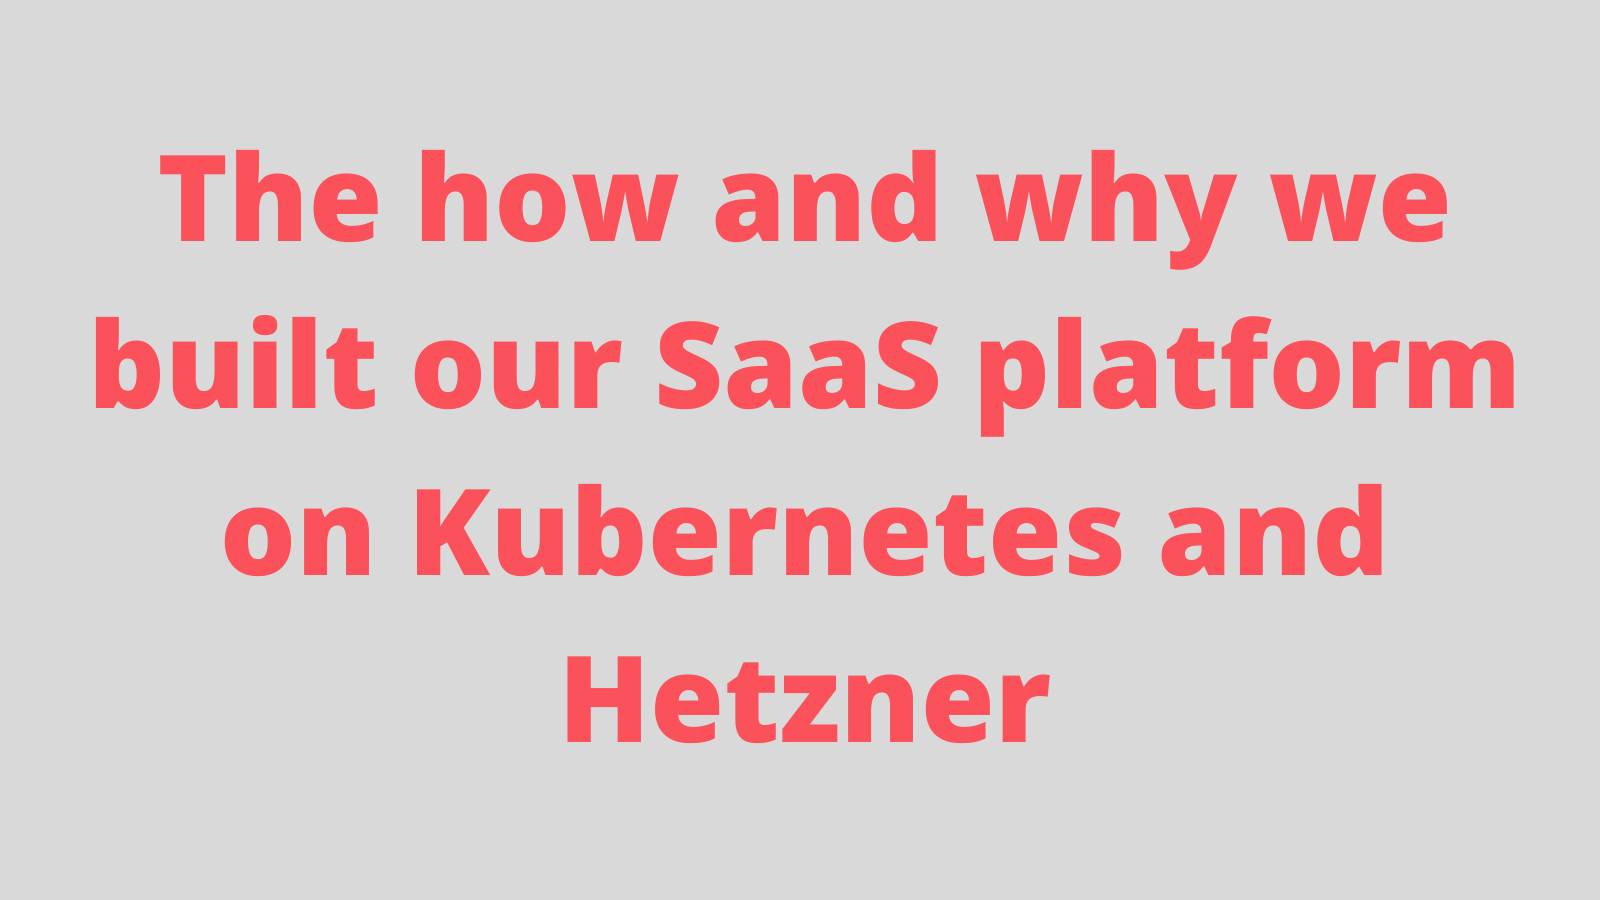
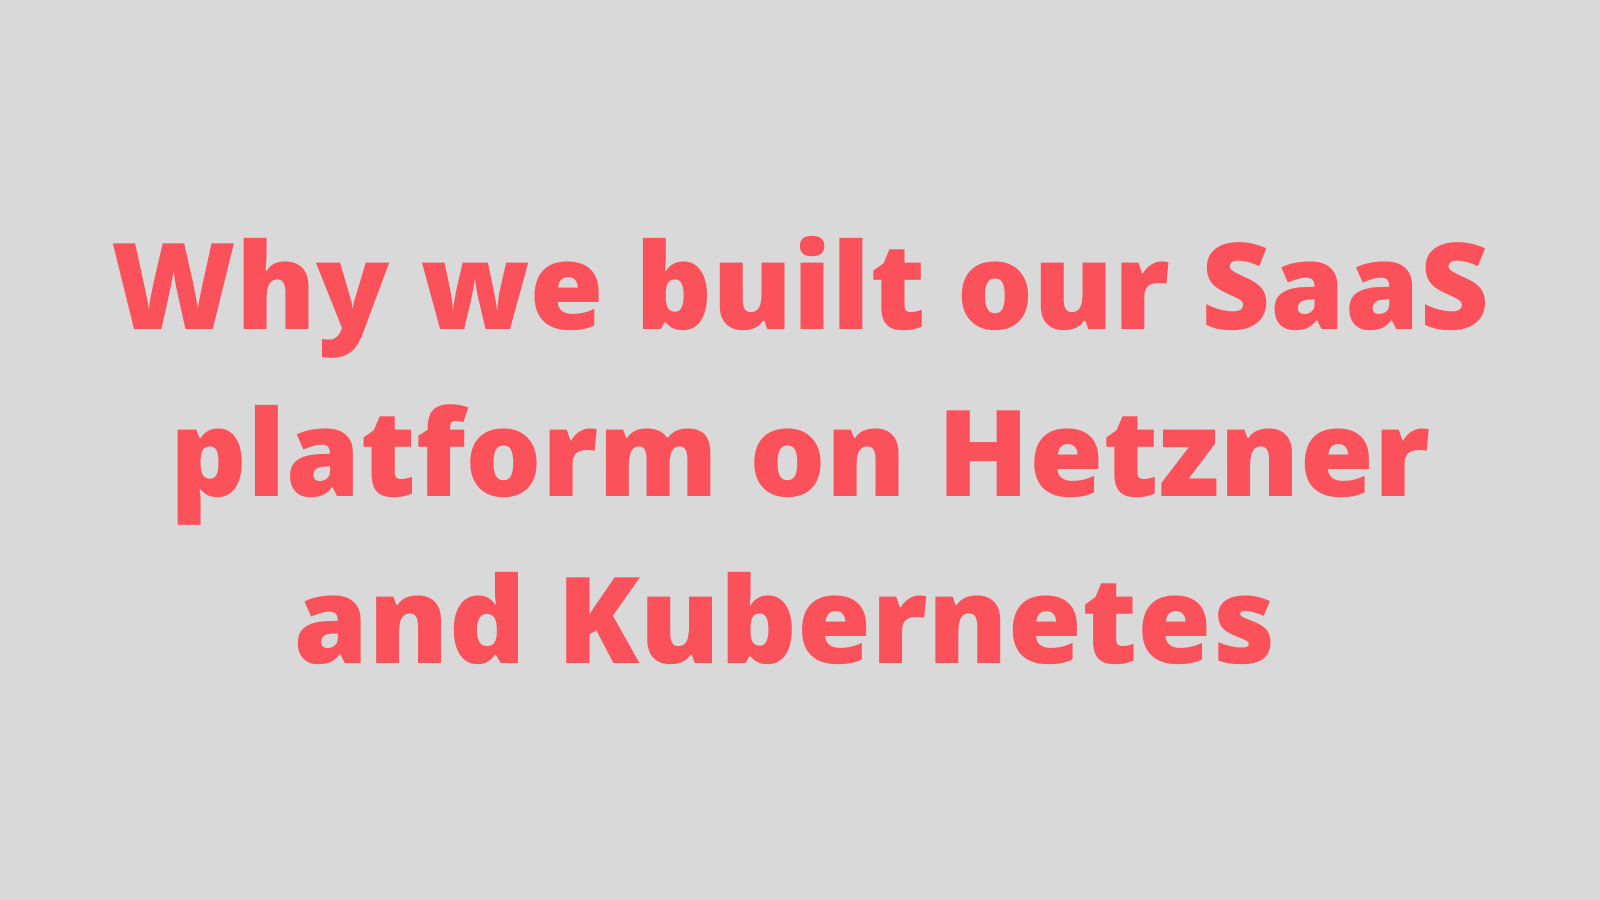
Image

Changed region(s): [[0.0625, 0.1556, 0.9688, 0.84]]

diff --git a/src/pages/blog/index.md b/src/pages/blog/index.md
@@ -2,7 +2,7 @@
 title: Blog
 ---
 
-{% post name="How we built our SaaS platform on Kubernetes and Hetzner" image="why-hetzner.png" link="/blog/how-we-built-our-saas-platform-on-kubernetes-and-hetzner" date="2023-03-08" %}
+{% post name="The how and why we built our SaaS platform on Kubernetes and Hetzner" image="why-hetzner.png" link="/blog/how-we-built-our-saas-platform-on-kubernetes-and-hetzner" date="2023-03-08" %}
 Hetzner is 5 times cheaper for us than the hyperscalers. This blog posts enumerates the how and why we built our SaaS on a discount bare metal provider. Gotchas included.
 {% /post %}
 
